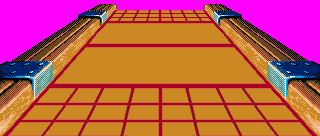
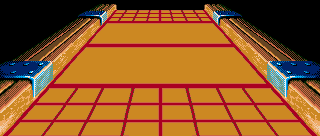
- Fixed a couple of color issues on the shufflepuck bitmaps.  - Early version of the ball motion & logic routines, moving in a chaotic way.

Changed region(s): [[0.0, 0.0, 1.0, 0.4706]]

diff --git a/game-shop-shop-galaxy/megadrive-version/src/main.c b/game-shop-shop-galaxy/megadrive-version/src/main.c
@@ -54,11 +54,40 @@ struct {
 			length;
 }racket;
 
+/*
+	Enemy game object
+*/
+struct {
+	fix16	max_racket_speed;
+	fix16	racket_speed;
+
+	fix16	velocity_x,
+			velocity_z;
+
+	fix16	initial_pox_x,
+			initial_pox_z;
+
+	fix16	pos_x,
+			pos_z;
+
+	fix16	prev_pos_x,
+			prev_pos_z;
+
+	fix16	width,
+			length;
+}ai;
+
 static void game_ShufflePuck()
 {
+	char str[16];	/* debug string */
 	u16 vblCount = 0;
 	u16 vramIndex = TILE_USERINDEX;
-	Sprite sprites[16];	
+	Sprite sprites[16];
+
+	/* Ball sprite coordinates */
+	s16 ball_2d_x,
+		ball_2d_y,
+		ball_2d_scale;
 
 	const fix16 persp_coef[] = {fix16DivFloats(1.0, 132.0), fix16DivFloats(5, 132.0), fix16DivFloats(9, 132.0), fix16DivFloats(13, 132.0), fix16DivFloats(17, 132.0), 
 								fix16DivFloats(22, 132.0), fix16DivFloats(27, 132.0), fix16DivFloats(34, 132.0), fix16DivFloats(42, 132.0), fix16DivFloats(51, 132.0), 
@@ -155,7 +184,7 @@ static void game_ShufflePuck()
 			ball_bounceZ();
 		}
 
-		if (ball.pos_z > fix16Mul(board_length, FIX16(-0.5))){
+		if (ball.pos_z > fix16Mul(board_length, FIX16(0.5))){
 			ball.pos_x = ball.initial_pox_x;
 			ball.pos_z = ball.initial_pox_z;
 			ball.prev_pos_x = ball.pos_x;
@@ -175,6 +204,13 @@ static void game_ShufflePuck()
 	}
 
 	void renderBall(u16 ball_2d_x,u16  ball_2d_y, u16 ball_2d_scale){
+		// ball_2d_y += (240 - 136);
+
+		intToStr(ball_2d_x, str, 0);
+		BMP_drawText(str, 0, 0);	
+		intToStr(ball_2d_y, str, 0);
+		BMP_drawText(str, 10, 0);		
+		SPR_setPosition(&sprites[0], ball_2d_x, ball_2d_y); //  - 65);
 		// render.sprite2d(SCR_MARGIN_X + ball_2d_x, ball_2d_y - (65 * SCR_SCALE_FACTOR), 24 * SCR_SCALE_FACTOR * ball_2d_scale, "@assets/game_ball.png")
 	}
 
@@ -186,8 +222,7 @@ static void game_ShufflePuck()
 		// render.sprite2d(SCR_MARGIN_X + ai_2d_x, ai_2d_y - (65 * SCR_SCALE_FACTOR), 64 * SCR_SCALE_FACTOR * ai_2d_scale, "@assets/game_racket.png")
 	}
 
-	u8 ballIsBehindRacket(void)
-	{
+	u8 ballIsBehindRacket(void){
 		if (ball.pos_z < racket.pos_z)
 			return TRUE;
 		else
@@ -207,15 +242,84 @@ static void game_ShufflePuck()
 			&& fix16Sub(ball.prev_pos_x, ball.radius) < fix16Add(racket.prev_pos_x, fix16Mul(racket.width, FIX16(0.5))))
 			return TRUE;
 		else
-			return FALSE;	
+			return FALSE;
+	}
+
+	void gameMainLoop(fix16 dt){
+		/* Update the ball motion */
+		ball_update(dt);
+
+		/* Update the player motion */
+		// player_setMouse(mouse_device.GetValue(gs.InputDevice.InputAxisX) / SCR_DISP_WIDTH, mouse_device.GetValue(gs.InputDevice.InputAxisY) / SCR_DISP_HEIGHT);
+		// player_update(dt);
+
+		/* Update the AI */
+		// ai_updateGameData(ball.pos_x, ball.pos_z, board.board_width, board.board_length);
+		// ai_update(dt);
+
+		/* Collisions */
+		// if (ball.velocity_z > 0.0)
+		// {
+		// 	if (!ballIsBehindRacket(ball, player)) && (BallWasWithinXReach(ball, player) or BallIsWithinXReach(ball, player))
+		// 	{
+		// 		ball.setPosition(ball.pos_x, player.pos_z - ball.velocity_z * dt + min(0.0, player.velocity_z) * dt);
+		// 		player.setPosition(player.pos_x, ball.pos_z + player.length);
+		// 		ball.bounceZ();
+		// 	}
+		// }
+
+		/* Compute 3D/2D projections */
+		Vect3D_f16 pvect; 
+		pvect = project3DTo2D(ball.pos_x, ball.pos_z);
+		ball_2d_x = pvect.x;
+		ball_2d_y = pvect.y;
+		ball_2d_scale = pvect.z;
+
+		// ball_2d_x *= SCR_SCALE_FACTOR
+		// ball_2d_y = SCR_DISP_HEIGHT - (ball_2d_y * SCR_SCALE_FACTOR)
+
+		// player_2d_x, player_2d_y, player_2d_scale = project3DTo2D(player.pos_x, player.pos_z, board.board_width, board.board_length)
+		// player_2d_x *= SCR_SCALE_FACTOR
+		// player_2d_y = SCR_DISP_HEIGHT - (player_2d_y * SCR_SCALE_FACTOR)
+
+		// ai_2d_x, ai_2d_y, ai_2d_scale = project3DTo2D(ai.pos_x, ai.pos_z, board.board_width, board.board_length)
+		// ai_2d_x *= SCR_SCALE_FACTOR
+		// ai_2d_y = SCR_DISP_HEIGHT - (ai_2d_y * SCR_SCALE_FACTOR)
+
+		// render.clear()
+		// render.set_blend_mode2d(render.BlendAlpha)
+		// /* Opponent */
+		// render.sprite2d(SCR_MARGIN_X + (320 * 0.5) * SCR_SCALE_FACTOR, (SCR_PHYSIC_HEIGHT - 96 * 0.5) * SCR_SCALE_FACTOR, 106 * SCR_SCALE_FACTOR, "@assets/robot5.png")
+
+		// /* Game board */
+		// render.image2d(SCR_MARGIN_X, 0, SCR_SCALE_FACTOR, "@assets/game_board.png")
+
+		// /* Score panel */
+		// render.image2d(SCR_MARGIN_X, SCR_DISP_HEIGHT - (32 * SCR_SCALE_FACTOR), SCR_SCALE_FACTOR, "@assets/game_score_panel.png")
+
+		/* Render moving items according to their Z position */
+		// renderAI(ai_2d_x, ai_2d_y, ai_2d_scale)
+
+		// if (ball.pos_z - ball.radius < player.pos_z + player.length)
+		// {
+			renderBall(fix16ToInt(ball_2d_x), fix16ToInt(ball_2d_y), ball_2d_scale);
+		// 	renderPlayer(player_2d_x, player_2d_y, player_2d_scale)
+		// }
+		// else
+		// {
+		// 	renderPlayer(player_2d_x, player_2d_y, player_2d_scale)
+		// 	renderBall(ball_2d_x, ball_2d_y, ball_2d_scale)
+		// }
+
+		// render.set_blend_mode2d(render.BlendOpaque)
 	}
 
 	/*	System stuff */
-
 	SYS_disableInts();
 
 	/* Set a larger tileplan to be able to scroll */
 	VDP_setPlanSize(64, 32);
+	SPR_init(256);
 
 	VDP_clearPlan(APLAN, 0);
 	VDP_clearPlan(BPLAN, 0);
@@ -229,19 +333,22 @@ static void game_ShufflePuck()
 
 	VDP_setPalette(PAL0, game_robot_5.palette->data);
 	VDP_setPalette(PAL1, game_board.palette->data);
+	VDP_setPalette(PAL2, game_ball.palette->data);
 
-	// SPR_init(257);
- //    SPR_initSprite(&sprites[0], &rse_logo_shadow, 0, 0, TILE_ATTR_FULL(PAL2, FALSE, FALSE, FALSE, 0));
+    SPR_initSprite(&sprites[0], &game_ball, 0, 0, TILE_ATTR_FULL(PAL2, FALSE, FALSE, FALSE, 0));
  //    // SPR_initSprite(&sprites[1], &rse_logo_shadow_alt, 0, 0, TILE_ATTR_FULL(PAL2, FALSE, FALSE, FALSE, 0));
-	// SPR_setPosition(&sprites[0], (320 - 160) >> 1, ((240 - 50) >> 1) + 8);
- //    SPR_update(sprites, 1);	
+	SPR_setPosition(&sprites[0], 64, 64);
+ 	SPR_update(sprites, 1);	
 
 	SYS_enableInts();
+
+	gameReset();
 
 	while (TRUE)
 	{
 		VDP_waitVSync();
-	    // SPR_update(sprites, 1);	
+		gameMainLoop(FIX16(1.0/60.0));
+	    SPR_update(sprites, 1);	
 		vblCount++;
 	}
 }
